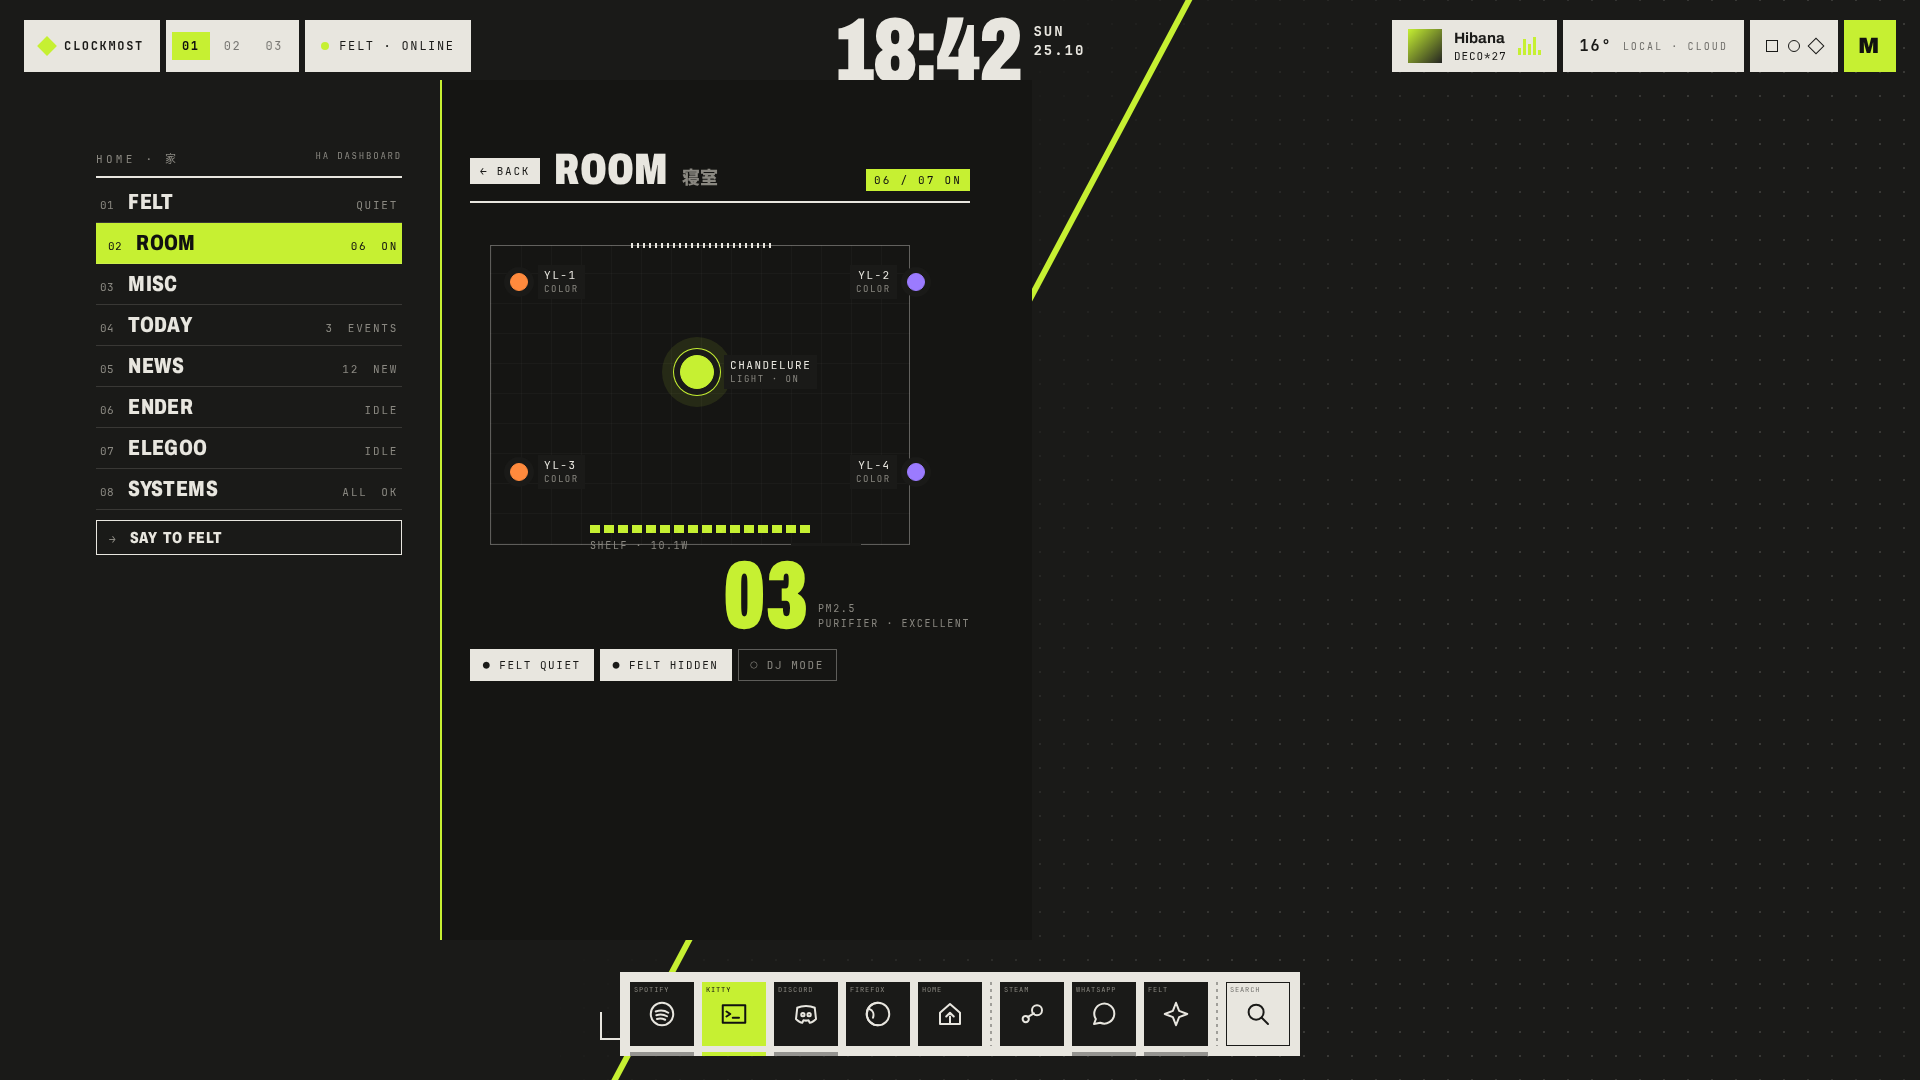
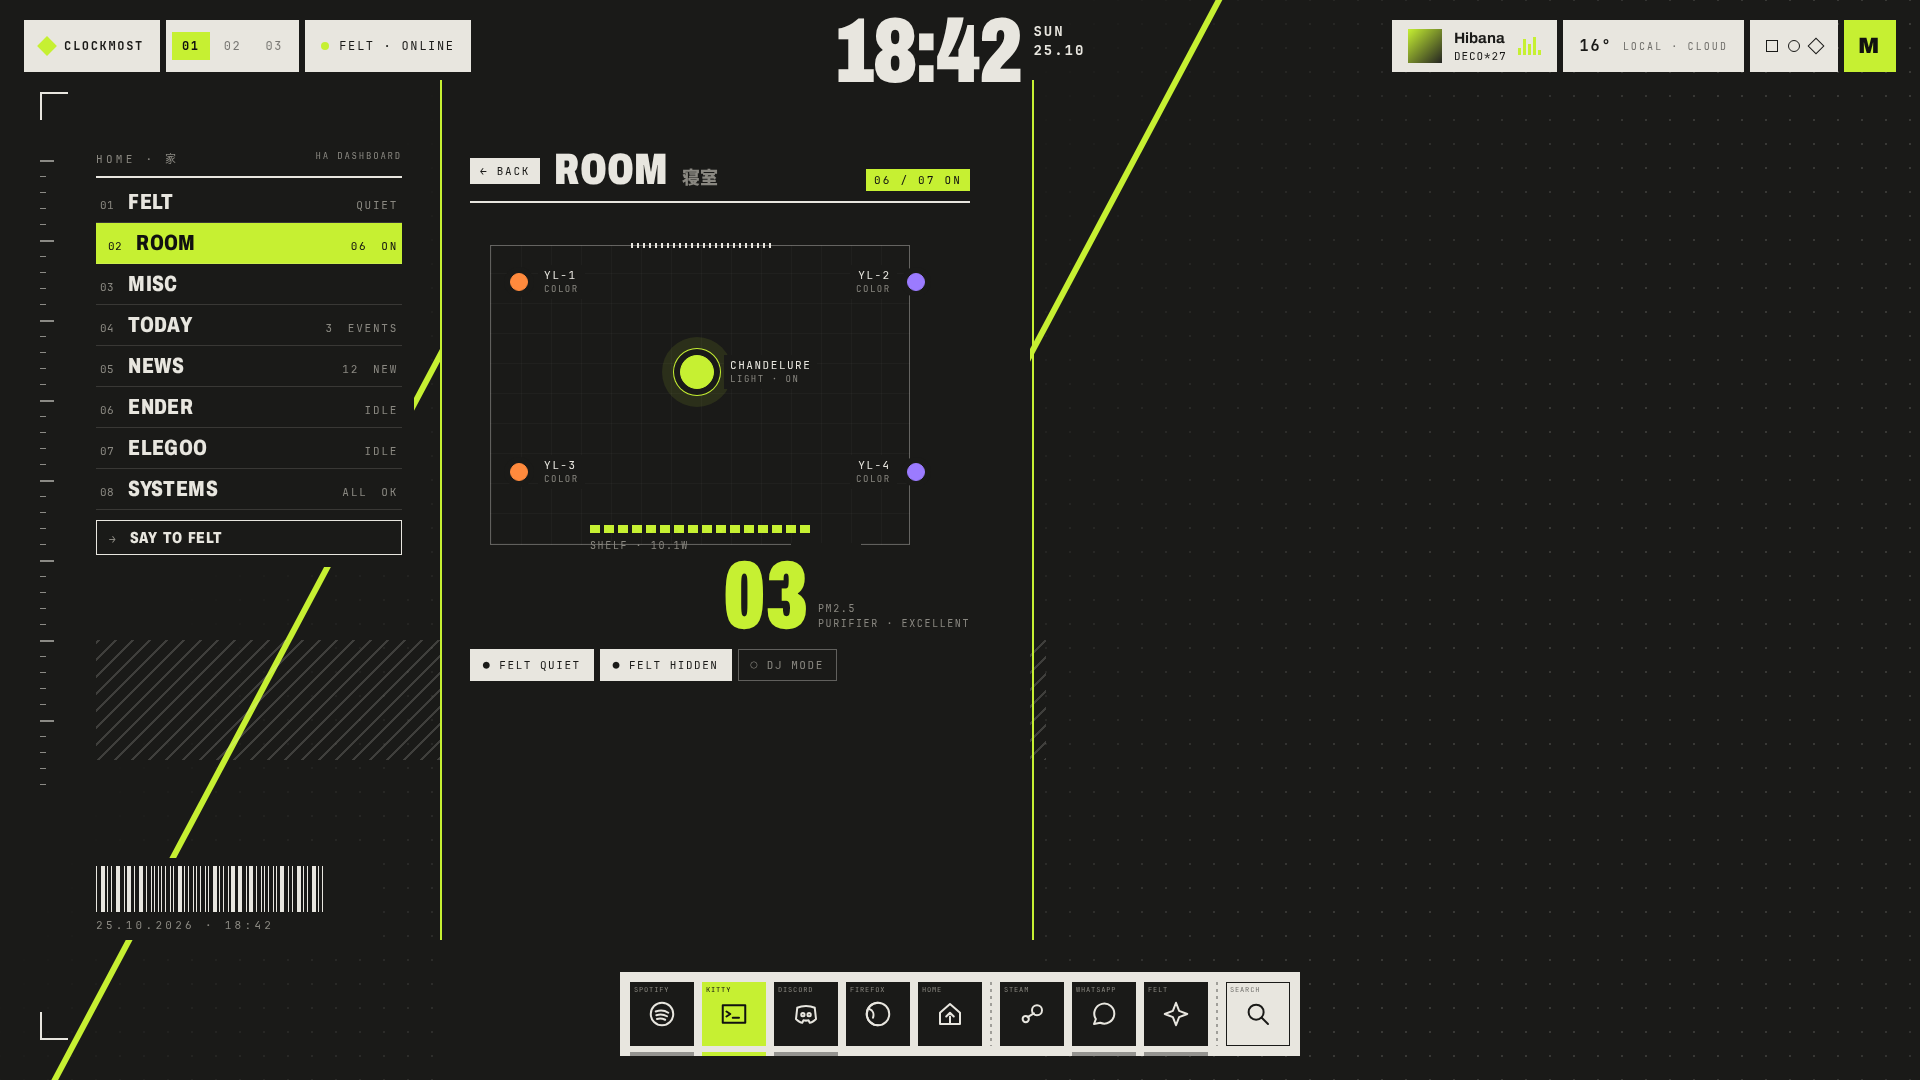
design: v2 round 5 - opening a section splits the desktop at the list edge and slides the rest away
Claude-Session: https://claude.ai/code/session_01TfCpBtvRHaocFGh62LwrkG

diff --git a/design/v2-2026-10-25/ha.css b/design/v2-2026-10-25/ha.css
@@ -345,3 +345,19 @@
 .ha-list a {
   word-spacing: 0.25em;
 }
+
+/* Mario: the shift read as an overlay - so the desktop now splits at the list's edge (x 440) and the right part
+   slides 590px; the section fills the gap, the lime line visibly breaks at the cut */
+.stage[data-ha] .ground {
+  transform: none;
+  clip-path: inset(0 calc(100% - 440px) 0 0);
+}
+.stage[data-ha] .ground.ground-r {
+  clip-path: inset(0 0 0 440px);
+  transform: translateX(590px);
+}
+.stage[data-ha] .ha-sec::before {
+  background: transparent;
+  border-left: 2px solid var(--acc);
+  border-right: 2px solid var(--acc);
+}

diff --git a/design/v2-2026-10-25/idle.html b/design/v2-2026-10-25/idle.html
@@ -126,6 +126,11 @@
       if (q.get("ha")) {
         stage.dataset.ha = q.get("ha");
         document.querySelector(`.ha-list a[data-sec="${q.get("ha")}"]`)?.classList.add("on");
+        // the desktop splits at the list's edge: the part right of the cut slides away, the section fills the gap
+        const g = document.querySelector(".ground");
+        const right = g.cloneNode(true);
+        right.classList.add("ground-r");
+        g.after(right);
       }
 
       // the barcode encodes date + time, so it changes with the clock (every minute)
